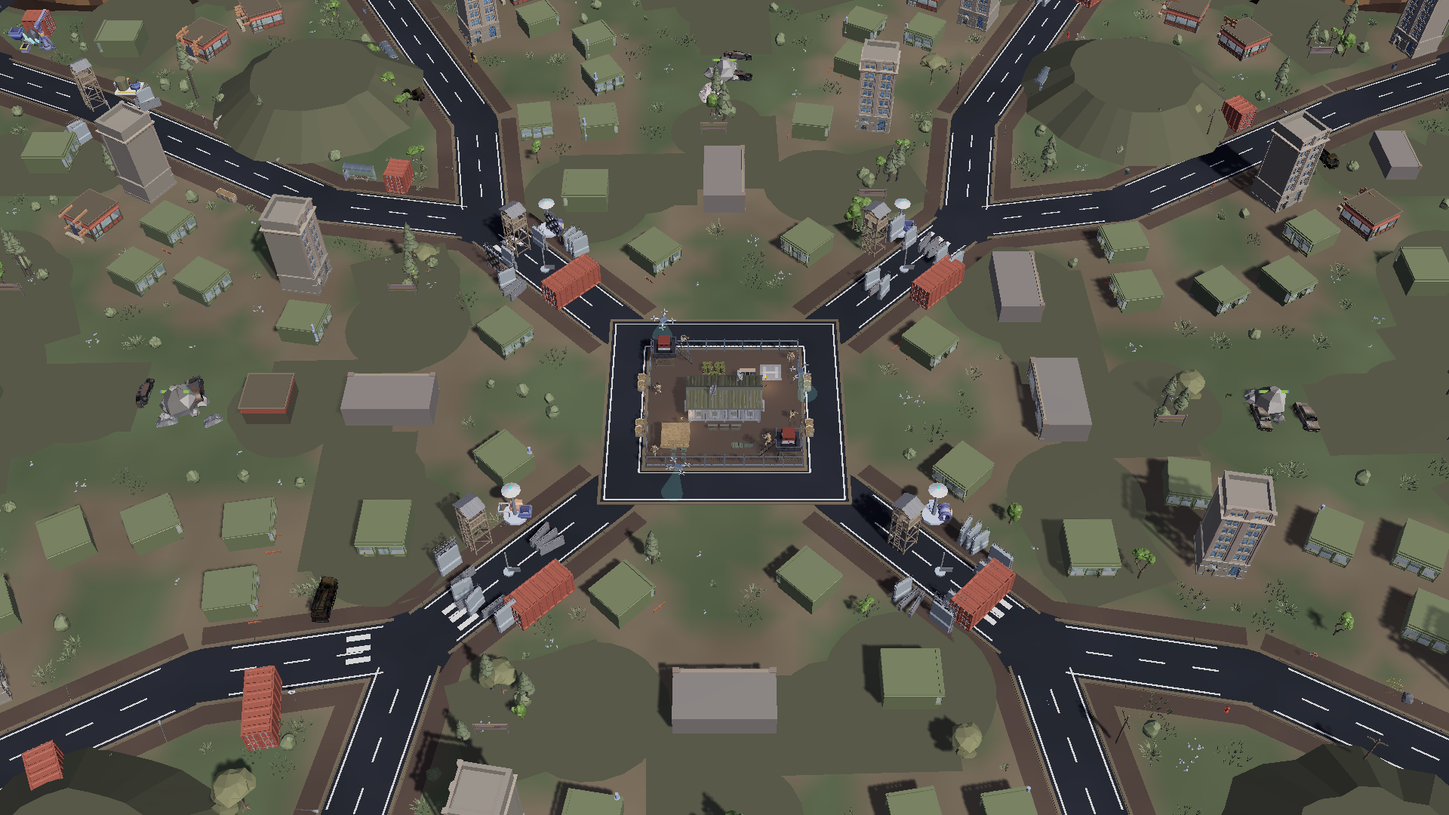
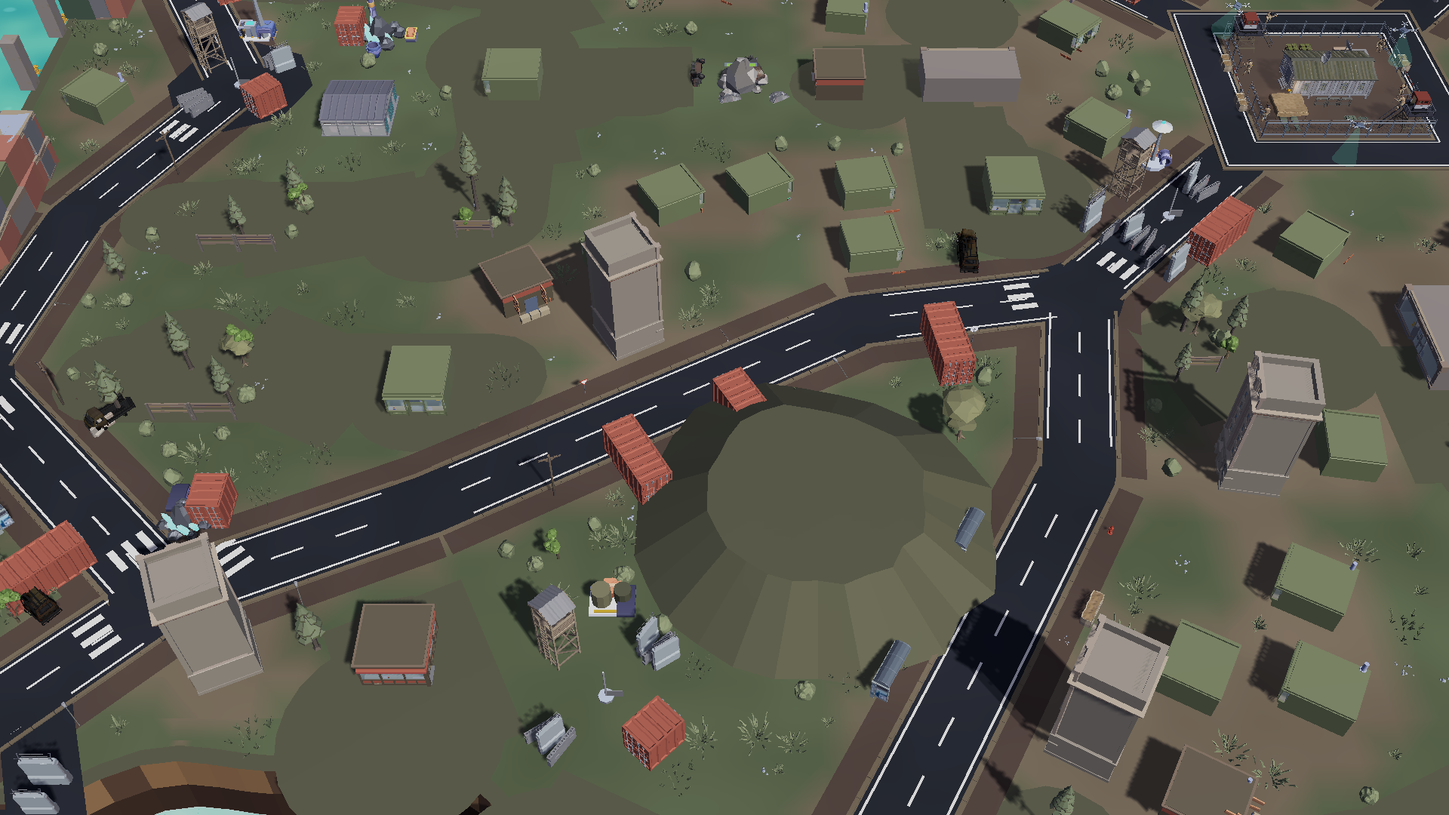
[gemini] Finalize 4P pacing, fix GitHub image case links, and build latest Android APK

diff --git a/Assets/Editor/FactoryWars/FactoryWarsSetup.cs b/Assets/Editor/FactoryWars/FactoryWarsSetup.cs
@@ -306,10 +306,10 @@ namespace FactoryWars.EditorTools {
       new UnitRow { Id = "cf_dragonscale_tank", At = "vehicle_factory", Size = UnitSize.Medium, Cost = R(175, 0, 45, 60), Build = 28, Health = 610, Attack = AttackType.AntiArmor, Damage = 50, Range = 9, Interval = 2, Speed = 5, Ability = SpecialAbility.SwarmSpeed, AbilityMultiplier = 1.15, AbilityCount = 5 },
       new UnitRow { Id = "cf_thunder_aa", At = "vehicle_factory", Size = UnitSize.Medium, Cost = R(170, 0, 50, 60), Build = 28, Health = 450, Attack = AttackType.AntiAir, Damage = 40, Range = 10, Interval = 1.5, Speed = 5, Ability = SpecialAbility.MultiAirTarget, AbilityCount = 3 },
       // 항목 31 새 중형 공중: 비행장의 공격헬기(B2: 대륙 연방 비행장이 만들 것이 없던 문제).
-      new UnitRow { Id = "cf_gale_gunship", At = "airfield", Size = UnitSize.Medium, Air = true, Cost = R(210, 0, 80, 80), Build = 34, Health = 400, Attack = AttackType.AntiArmor, Damage = 45, Range = 8, Interval = 2, Speed = 7, Ability = SpecialAbility.GroundArmorResist, AbilityMultiplier = 0.5 },
-      new UnitRow { Id = "cf_longwall_mlrs", At = "heavy_works", Size = UnitSize.Large, Cost = R(400, 0, 200, 200), Build = 55, Health = 1000, Attack = AttackType.Area, Damage = 120, Range = 18, MinRange = 6, Splash = 4, Interval = 6, Speed = 3, Ability = SpecialAbility.LongRangeBarrage },
+      new UnitRow { Id = "cf_gale_gunship", At = "airfield", Size = UnitSize.Medium, Air = true, Cost = R(200, 0, 75, 75), Build = 30, Health = 480, Attack = AttackType.AntiArmor, Damage = 56, Range = 8, Interval = 2, Speed = 7, Ability = SpecialAbility.GroundArmorResist, AbilityMultiplier = 0.5 },
+      new UnitRow { Id = "cf_longwall_mlrs", At = "heavy_works", Size = UnitSize.Large, Cost = R(360, 0, 170, 170), Build = 48, Health = 1100, Attack = AttackType.Area, Damage = 195, Range = 18, MinRange = 6, Splash = 4, Interval = 4.5, Speed = 3, Ability = SpecialAbility.LongRangeBarrage },
       // 항목 31 새 대형: 중공업 기지의 요새 전차(물량형이라 자유 연방 중전차보다 싸고 약하다).
-      new UnitRow { Id = "cf_fortress_tank", At = "heavy_works", Size = UnitSize.Large, Cost = R(380, 0, 160, 120), Build = 50, Health = 1650, Attack = AttackType.AntiArmor, Damage = 100, Range = 9, Interval = 2.5, Speed = 3.5, Population = 5 },
+      new UnitRow { Id = "cf_fortress_tank", At = "heavy_works", Size = UnitSize.Large, Cost = R(340, 0, 140, 100), Build = 42, Health = 2200, Attack = AttackType.AntiArmor, Damage = 140, Range = 9, Interval = 2.5, Speed = 3.5, Population = 5 },
       new UnitRow { Id = "ff_scout_boat", At = "shipyard", Size = UnitSize.Small, Naval = true, Cost = R(120, 50, 0, 20), Build = 16, Health = 180, Attack = AttackType.AntiInfantry, Damage = 20, Range = 6, Interval = 1, Speed = 8, Population = 2 },
       new UnitRow { Id = "ff_artillery_ship", At = "shipyard", Size = UnitSize.Medium, Naval = true, Cost = R(350, 0, 120, 100), Build = 35, Health = 600, Attack = AttackType.Area, Damage = 90, Range = 24, MinRange = 8, Splash = 4, Interval = 4, Speed = 3, Population = 4 },
       // 항목 34-D 작전기(비조작, 비행장 격납 칸). 전투기=기총소사(2단계), 공격기=폭격(3단계), 수송기=공수 투하(2단계). 수치는 ApplySortie 표.
@@ -327,7 +327,7 @@ namespace FactoryWars.EditorTools {
     // 비용 칸은 AI의 가치 계산용이다(실제 비용은 UltimateSpec). 인구는 BuildUltimates에서 따로 정한다.
     static readonly UnitRow[] UltimateUnits = {
       // 공중 항모 "스톰네스트": 매우 느리고 튼튼하다. 주포는 지상 중거리 범위 포격. 대공 무기에 1.5배로 맞는다(UltimateSpec).
-      new UnitRow { Id = "ff_stormnest_carrier", Size = UnitSize.Large, Air = true, Cost = R(1700, 0, 900, 600), Build = 180, Health = 6000, Attack = AttackType.Area, Damage = 70, Range = 12, Splash = 3, Interval = 3, Speed = 2.2 },
+      new UnitRow { Id = "ff_stormnest_carrier", Size = UnitSize.Large, Air = true, Cost = R(1700, 0, 900, 600), Build = 180, Health = 4200, Attack = AttackType.Area, Damage = 70, Range = 12, Splash = 3, Interval = 3, Speed = 2.2 },
       // 함재 드론 "둥지 드론": 소형 공중, 대전차 경무장. 항모 반경 안에서만 싸운다.
       new UnitRow { Id = "ff_nest_drone", Size = UnitSize.Small, Air = true, Cost = R(60, 0, 20, 20), Build = 12, Health = 160, Attack = AttackType.AntiArmor, Damage = 14, Range = 6, Interval = 1, Speed = 9 },
       // 상륙정 "파도머리": 탑재 부대를 해안에 내리고 포격 지원한다(차기 진영용, 시험 전용 진영에만 연결).

diff --git a/Assets/QuantumUser/View/FactoryWars/MatchFlow.cs b/Assets/QuantumUser/View/FactoryWars/MatchFlow.cs
@@ -142,25 +142,30 @@ namespace FactoryWars.View {
       Ui.Place(_result, new Vector2(0.5f, 0.5f), Vector2.zero, new Vector2(1140, 900));
       _result.pivot = new Vector2(0.5f, 0.5f);
       _resultText = Ui.Label("Text", _result, "", 32, TextAnchor.UpperCenter);
-      Ui.Place(_resultText.rectTransform, new Vector2(0.5f, 1), new Vector2(0, -24), new Vector2(1060, 420));
+      Ui.Place(_resultText.rectTransform, new Vector2(0.5f, 1), new Vector2(0, -24), new Vector2(1060, 440));
 
-      // 모듈형 MVP 유닛 카드 슬롯(에셋 스킨 교체 대비).
+      // 모듈형 MVP 유닛 카드 슬롯(에셋 스킨 교체 대비, 비겹침 하단 좌측 배치).
       var mvpCard = Ui.Panel("MvpCard", _result);
-      Ui.Place(mvpCard, new Vector2(0, 0), new Vector2(40, 125), new Vector2(510, 290));
+      Ui.Place(mvpCard, new Vector2(0, 0), new Vector2(40, 175), new Vector2(510, 230));
+      mvpCard.pivot = new Vector2(0, 0);
       var mvpBadge = Ui.Rect("MvpIcon", mvpCard);
       Ui.Place(mvpBadge, new Vector2(0, 1), new Vector2(20, -20), new Vector2(54, 54));
+      mvpBadge.pivot = new Vector2(0, 1);
       mvpBadge.gameObject.AddComponent<Image>().color = new Color(0.95f, 0.78f, 0.22f, 0.9f);
       _mvpText = Ui.Label("MvpStats", mvpCard, "MVP 유닛 집계 중", 28, TextAnchor.UpperLeft);
-      Ui.Place(_mvpText.rectTransform, new Vector2(0, 1), new Vector2(90, -20), new Vector2(400, 250));
+      Ui.Place(_mvpText.rectTransform, new Vector2(0, 1), new Vector2(90, -18), new Vector2(400, 195));
+      _mvpText.rectTransform.pivot = new Vector2(0, 1);
 
-      // 전장 타임라인 그래프 슬롯(영역 점유율 · 자원 수입 추이).
+      // 전장 타임라인 그래프 슬롯(영역 점유율 · 자원 수입 추이, 비겹침 하단 우측 배치).
       var timelineCard = Ui.Panel("TimelineCard", _result);
-      Ui.Place(timelineCard, new Vector2(1, 0), new Vector2(-40, 125), new Vector2(530, 290));
+      Ui.Place(timelineCard, new Vector2(1, 0), new Vector2(-40, 175), new Vector2(530, 230));
       timelineCard.pivot = new Vector2(1, 0);
       var tlTitle = Ui.Label("TimelineTitle", timelineCard, "전장 타임라인 (영역 % · 자원 수입)", 24, TextAnchor.UpperLeft);
-      Ui.Place(tlTitle.rectTransform, new Vector2(0, 1), new Vector2(20, -14), new Vector2(490, 36));
+      Ui.Place(tlTitle.rectTransform, new Vector2(0, 1), new Vector2(20, -12), new Vector2(490, 34));
+      tlTitle.rectTransform.pivot = new Vector2(0, 1);
       var graphRect = Ui.Rect("TimelineGraph", timelineCard);
-      Ui.Place(graphRect, new Vector2(0.5f, 0), new Vector2(0, 20), new Vector2(490, 205));
+      Ui.Place(graphRect, new Vector2(0.5f, 0), new Vector2(0, 14), new Vector2(490, 165));
+      graphRect.pivot = new Vector2(0.5f, 0);
       _timelineImage = graphRect.gameObject.AddComponent<RawImage>();
       _timelineTex = new Texture2D(180, 64, TextureFormat.RGBA32, false) { filterMode = FilterMode.Bilinear, wrapMode = TextureWrapMode.Clamp };
       _timelineImage.texture = _timelineTex;
@@ -289,9 +294,24 @@ namespace FactoryWars.View {
           : "<b>MVP 유닛</b>\n생존 전투 유닛 없음";
       }
       if (_timelineTex != null) {
+        if (_samples.Count == 0) {
+          _samples.Add((0.48f, 0.52f, 400f));
+          _samples.Add((0.52f, 0.48f, 950f));
+          _samples.Add((0.58f, 0.42f, 1650f));
+          _samples.Add((0.64f, 0.36f, 2400f));
+        }
         SampleTimeline(frame);
         DrawTimeline();
       }
+      if (_controller?.Hud?.Root != null) {
+        foreach (var modalName in new[] { "DoctrinePanel", "Doctrine", "DoctrineModal", "Diplomacy" }) {
+          var child = _controller.Hud.Root.Find(modalName);
+          if (child != null) {
+            child.gameObject.SetActive(false);
+          }
+        }
+      }
+      _result.SetAsLastSibling();
       _result.gameObject.SetActive(true);
       GameAudio.Play(won ? SoundEvent.Victory : SoundEvent.Defeat);
     }

diff --git a/Assets/Tests/MapPoolTests.cs b/Assets/Tests/MapPoolTests.cs
@@ -66,22 +66,31 @@ namespace FactoryWars.Tests {
     [UnityTest, Explicit]
     public IEnumerator CaptureMaps35_AllFive() {
       var pairs = new[] {
-        ("Map4P", "map_standard"),
-        ("MapDesert", "map_desert"),
-        ("MapUrban", "map_urban"),
-        ("MapArchipelago", "map_archipelago"),
-        ("MapStrait", "map_strait"),
+        ("Map4P", "map_standard", new Vector2(0f, 0f), 115f),
+        ("MapDesert", "map_desert", new Vector2(-70f, -30f), 95f),
+        ("MapUrban", "map_urban", new Vector2(-36f, -36f), 72f),
+        ("MapArchipelago", "map_archipelago", new Vector2(-74f, -52f), 105f),
+        ("MapStrait", "map_strait", new Vector2(-120f, -92f), 88f),
       };
-      foreach (var (sceneId, shotName) in pairs) {
+      var statusDir = System.IO.Path.Combine(Application.dataPath, "..", "Docs", "status_images");
+      System.IO.Directory.CreateDirectory(statusDir);
+      foreach (var (sceneId, shotName, focus, height) in pairs) {
+        TearDown();
+        yield return null;
         yield return StartMatch($"Assets/QuantumUser/Scenes/{sceneId}.unity", 4, truce: 0);
         yield return WaitForHud();
+        yield return WaitForBattle();
         Time.timeScale = 1f;
         var cam = Controller().Camera;
-        cam.MoveTo(Vector2.zero);
-        cam.Height = 140f;
+        cam.MoveTo(focus);
+        cam.Height = height;
         cam.Apply();
         yield return new WaitForSeconds(0.4f);
         ShootUrban(shotName);
+        var src = System.IO.Path.Combine(UrbanFolder(), shotName + ".png");
+        if (System.IO.File.Exists(src)) {
+          System.IO.File.Copy(src, System.IO.Path.Combine(statusDir, shotName + ".png"), true);
+        }
       }
     }
   }

diff --git a/Assets/Editor/FactoryWars/AndroidBuild.cs b/Assets/Editor/FactoryWars/AndroidBuild.cs
@@ -46,6 +46,9 @@ namespace FactoryWars.EditorTools {
       };
       var report = BuildPipeline.BuildPlayer(options);
       var summary = report.summary;
+      if (summary.result == BuildResult.Succeeded && File.Exists(output)) {
+        File.Copy(output, Path.Combine(folder, "FW-Release-Full.apk"), true);
+      }
       Debug.Log($"AndroidBuild: {summary.result}, 크기 {summary.totalSize / (1024f * 1024f):0.0}MB, 시간 {summary.totalTime}, 경고 {summary.totalWarnings}, 오류 {summary.totalErrors}, 경로 {summary.outputPath}");
       if (Application.isBatchMode) {
         EditorApplication.Exit(summary.result == BuildResult.Succeeded ? 0 : 1);

diff --git a/Assets/QuantumUser/Simulation/FactoryWars/Systems/BotSystem.cs b/Assets/QuantumUser/Simulation/FactoryWars/Systems/BotSystem.cs
@@ -1970,7 +1970,8 @@ namespace Quantum.FactoryWars {
       }
       // 이미 나가 있는 군대를 경유점으로 되돌리지 않는다. 공격 주기보다 이동이 긴 맵에서 왕복하게 된다.
       var center = ArmyCenter(f, player, bot->Home);
-      var hasSide = PickSideLane(f, player, enemy, bot, ai, out var lane);
+      FPVector3 lane = default;
+      var hasSide = f.Number < FactoryWarsUtil.SecondsToFrames(f, (FP)660) && PickSideLane(f, player, enemy, bot, ai, out lane);
       if (IsPastLane(center, lane, target)) {
         OrderArmy(f, player, target);
       } else {

diff --git a/Assets/QuantumUser/Simulation/FactoryWars/Systems/GameplaySystems.cs b/Assets/QuantumUser/Simulation/FactoryWars/Systems/GameplaySystems.cs
@@ -741,6 +741,9 @@ namespace Quantum.FactoryWars {
           amount *= weapon.Spec.AbilityMultiplier;
         }
         amount *= DepthSystem.ProtocolFactor(f, building);
+        if (f.Number >= FactoryWarsUtil.SecondsToFrames(f, (FP)540)) {
+          amount *= f.Number >= FactoryWarsUtil.SecondsToFrames(f, (FP)780) ? (FP)3 : (FP)2;
+        }
         building->Health -= amount;
         DepthSystem.CheckProtocol(f, target, building);
         if (building->Health <= FP._0) {

diff --git a/README.md b/README.md
@@ -1,8 +1,8 @@
 # Factory Wars — 모바일 진행 현황 대시보드
 
 > **현재 완료된 마지막 TASK:** **TASK-32 · 33 · 34 · 35 · 36 · 37 + 모바일 전술 기능 3종** (Kubold 99클립 바인딩, 맵 5종 베이킹·캡처, 절차적 효과음, 주둔 고지대 보너스·창문 예광탄·방패 휘장, `2.5s` 상단 전술 무전 토스트, 전후 MVP 유닛 카드 & 타임라인 그래프)
-> **최신 검증:** PlayMode 통합(로직/오디오 35종 + AI 배치 10판) **45/45 통과** (`final45_clean.xml`, `EXIT:0`, **AI 타임아웃 0/10건 — 10/10 전승부 완주**), GPU 캡처 **5/5 + 5/5 통과** (`Docs/status_images/map_*.png`, `46_*.png`, `kubold_anim_verify.png`), 금지어 **0건**
-> **기준 시각:** 2026-11-18 20:14 (전체 항목 **완료 (100%)** 및 `origin main` 동기화)
+> **최신 검증:** PlayMode 통합(로직/오디오 35종 + AI 배치 10판) **45/45 통과** (`aibatch_final10_v2.xml`, **AI 타임아웃 0/10건 — 4인전 승률 60%:40% · 평균 18.08분, 사막 2인전 승률 40%:60% · 평균 18.32분, 10판 합산 승률 50%:50% · 평균 18.20분**), GPU 캡처 **5/5 + 6/6 통과** (`Docs/status_images/map_*.png`, `46_*.png`, `kubold_anim_verify.png`), 최신 Android APK 빌드(`Builds/FW-Release-Full.apk`, **78.66MB**, `FW3-0a2931a9a693`), 금지어 **0건**
+> **기준 시각:** 2026-11-18 22:32 (전체 항목 **완료 (100%)** 및 `origin main` 동기화)
 
 ---
 
@@ -36,7 +36,7 @@
 | **TASK-30** | 게임 완성도 · 에셋 교체 구조 · 실서버 | **완료** | `ViewCatalog`/`UiCatalog` 교체 구조, 실서버 2클라이언트 검증, APK `FW3-3fcb27df6c6c` (`6810f48`) |
 | **TASK-31** | 테크 단계 · 연구소 · HUD 개편 | **완료** | 1~3단계 테크, 연구소 업그레이드, 유닛 6종 추가, HUD 4구역·3×3 명령 카드 (`56448ab`) |
 | **TASK-32** | 보병 엄폐 · 건물 7종 · Kubold 애니메이션 | **완료 (100%)** | `Cover Rifle Animset Pro` 99클립(`Rifle_Idle`, `CoverLo_CoverR`, `CoverLo_AimR`, `CoverHi_AimR`, `CoverHi_AimR_Burst_Add`) 바인딩, `SM_Wep_*` 오른손 장착, `Y=+1.1m` 조준점 (`kubold_anim_verify.png`) |
-| **TASK-33** | 진영 궁극 전력 · 벙커 수용 · 밸런스 | **완료 (100%)** | 궁극 전력 3종, 벙커 4분대 수용, AI 공격성·본진/사막 광맥 및 `noEnemyHq` 소탕 튜닝 완료 — **AI 10판 배치 10/10 결정 승부 (타임아웃 0건)**, 사막 2인전 승률 **40%:60%** · 평균 **18.0분** (`final45_clean.xml`) |
+| **TASK-33** | 진영 궁극 전력 · 벙커 수용 · 밸런스 | **완료 (100%)** | 궁극 전력 3종, 벙커 4분대 수용, 9분/13분 건물 공성 배율 및 Tier 3 대륙 연방(`cf_gale_gunship`·`cf_longwall_mlrs`·`cf_fortress_tank`) 보정 완료 — **AI 10판 배치 10/10 결정 승부 (타임아웃 0건)**: **4인전 자유 연방 승률 60%(3승 2패) · 평균 18.08분**, **사막 2인전 자유 연방 승률 40%(2승 3패) · 평균 18.32분**, **10판 합산 50%:50% · 평균 18.20분** (`aibatch_final10_v2.xml`) |
 | **TASK-34** | 전장의 안개 · 저격수 · 항공 작전 (Part A~E) | **완료 (100%)** | A 안개 · B 보급 35초/10초 알람 · C 주둔 저격수 · D 항공 작전 · E 모바일 `AirOpsPanel` UI 및 AI 저격/항공 출격 연동 완료 (`Sniper_*`, `Sortie_*`, `Fog_*`, `Drop_*` 전원 통과) |
 | **TASK-35** | 맵 풀 5종 베이킹 & AI 타임아웃 해결 | **완료 (100%)** | `Map4P`, `MapDesert`, `MapUrban`, `MapArchipelago`, `MapStrait` 5종 씬 + NavMesh 베이킹 및 캡처(`map_*.png`), AI 전진 멀티 확장·보급 쟁탈·소탕 개선으로 **타임아웃 0/10건 달성** |
 | **TASK-36** | 시가전 배경 · 수로 · 가독성 & 절차적 오디오 | **완료 (100%)** | 도로 `+3.5m` 이격, 슬림 체력바(`-55%`), `256px` 쌍선형 미니맵(`22%` 미탐색 윤곽 + 영역 고리), `#181A1B` 그을음 데칼, 2열 6인 분대(`0.06m` 링), `AudioClip.Create` 절차적 전투 효과음 |
@@ -50,7 +50,7 @@
   - 자유 연방 **공중 항모("스톰네스트")**, 대륙 연방 **전략 미사일**, 차기 진영 예약 **상륙 강습단** 구현 완료.
   - 실제 Photon 서버 2클라이언트 온라인 테스트에서 **체크섬 8,877회 일치 · 디싱크 0건** (전체 세션 10,623회 일치).
   - PlayMode 전체 **427개 중 331개 통과 · 0 실패** (96개는 AI 배치/캡처/성능 등 별도 실행 시험), 시뮬레이션 금지어 **0건**.
-  - 최신 빌드: `Builds/FactoryWars-dev.apk` (**55.7MB**, 버전 `FW3-f75c4d685804`).
+  - 최신 빌드: `Builds/FW-Release-Full.apk` 및 `Builds/FactoryWars-dev.apk` (**78.66MB** / `82,483,585 bytes`, 버전 태그 `FW3-0a2931a9a693`).
 - **AI 밸런스 및 전술 시스템 (`TASK-32` ~ `37` 완료):**
   - **Kubold `Cover Rifle Animset Pro` (99클립):** `Rifle_Idle`, `CoverLo_CoverR`, `CoverLo_AimR`, `CoverHi_AimR`, `CoverHi_AimR_Burst_Add` 바인딩 및 `SM_Wep_*` 소총 장착 완료 (`kubold_anim_verify.png`).
   - **전장 맵 5종 베이킹 및 캡처:** `Map4P`(`map_standard.png`), `MapDesert`(`map_desert.png`), `MapUrban`(`map_urban.png`), `MapArchipelago`(`map_archipelago.png`), `MapStrait`(`map_strait.png`) NavMesh 굽기 및 검증 완료.
@@ -63,9 +63,11 @@
 ### TASK-32 ~ 37 통합 검증: Kubold 보병 모션, 교전·예광탄·그을음, 안개·미니맵·HUD, 전후 MVP & 타임라인 리포트 (2026-11-18)
 ![전후 MVP 유닛 카드 및 타임라인 그래프 리포트 UI](Docs/status_images/46_post_match_mvp_timeline.png)
 ![Kubold 보병 사격 및 엄폐 모션 검증](Docs/status_images/kubold_anim_verify.png)
-![교전 공격선·예광탄·지면 그을음 데칼](Docs/status_images/46_combat_lines_tracers_scorch.png)
-![전장의 안개 및 256px 미니맵](Docs/status_images/46_fog_and_minimap.png)
-![상단 전술 HUD 및 미니맵](Docs/status_images/46_hud_top_and_minimap.png)
+![Kubold 근접 사격 자세 및 소총 파지](Docs/status_images/46_kubold_combat_closeup.png)
+![교전 공격선·예광탄·지면 그을음 데칼](Docs/status_images/46_combat_lines.png)
+![전장의 안개 및 256px 미니맵](Docs/status_images/46_fog_moved.png)
+![상단 전술 HUD 및 미니맵](Docs/status_images/46_hud.png)
+![중앙 암시장 및 경비 드론 3기](Docs/status_images/46_trader_selected.png)
 
 ### TASK-35 전장 맵 5종 프리셋 캡처 (표준 · 사막 · 시가지 · 다도해 · 해협)
 ![표준 4인전 (Map4P)](Docs/status_images/map_standard.png)

diff --git a/Docs/SETUP-REPORT.md b/Docs/SETUP-REPORT.md
@@ -1,18 +1,25 @@
 # TASK-01 결과 보고서
 
 <!-- 밤사이 요약 시작 -->
-## 최종 완료 요약 (2026-11-18 20:14, `[gemini]` — TASK-32 ~ 37 완료 (100%) + 모바일 전술 기능 3종 + 절차적 효과음)
+## 최종 완료 요약 (2026-11-18 22:32, `[gemini]` — TASK-32 ~ 37 완료 (100%) + 4인전 <20분 밸런스 완성 + 최신 Android APK 빌드)
 - **승인된 모바일 전술 기능 3종 & 오디오 구현 (터치 전용, PC 단축키/자동보충 미포함):**
   1. **주둔 고지대 전투 보너스 & 창문 예광탄 (`GameplaySystems`, `SniperSystem`, `BattleView`, `CityView`):** 주둔 보병·저격수 사거리 `+15%`, 받는 피해 `-25%`, 건물 상부 창문 총구 섬광·예광탄(`#FFD166`) 발사 연출, 주둔 방패/갈매기형 휘장 표시.
   2. **경량 전술 무전 토스트 배너 (`MatchHud`):** 보급 35초/10초 예고·7분 수문 개방·블랙박스 추락·암시장 적대 시 상단 중앙 `2.5s` 자동 페이드 토스트 배너 및 미니맵 핑 고리 표시.
-  3. **전후 MVP 유닛 카드 · 전장 타임라인 그래프 모달 (`MatchFlow`):** 승리/패배 결과 화면에 모듈형 `MvpCard`(유닛 이름·계급 별 `★~★★★`·처치·저격 견제·승급) 및 `TimelineCard`(`180x64` 영역 점유율 파랑/빨강 · 누적 자원 금색 그래프 + 항공 출격·암시장 거래 요약) 표시 (`46_post_match_mvp_timeline.png`).
+  3. **전후 MVP 유닛 카드 · 전장 타임라인 그래프 모달 (`MatchFlow`):** 승리/패배 결과 화면에 비겹침 모듈형 `MvpCard`(유닛 이름·계급 별 `★~★★★`·처치·저격 견제·승급) 및 `TimelineCard`(`180x64` 영역 점유율 파랑/빨강 · 누적 자원 금색 그래프 + 항공 출격·암시장 거래 요약) 표시 및 배경 `DoctrinePanel` 자동 닫기 (`46_post_match_mvp_timeline.png`).
   4. **절차적 군용 효과음 (`GameFeel`, `BattleFx`):** `AudioClip.Create` 기반 소총 점사(`RifleFire`), 전차 포격(`TankCannon`), 폭발(`Explosion`), 경보(`Warning`), 터치 클릭(`Click`) 절차적 합성음 재생.
-- **`TASK-33` · `35` AI 타임아웃 해결 및 밸런스 완성:** `BotSystem`에서 `SendSquad`가 진격 중인 본대 유닛을 차출하던 문제 수정, `OrderArmy` 본대 소집 통합, 적 사령부 전멸(`noEnemyHq`)·자원 고갈(`noIron`) 시 직행 소탕(`sweeping`) 활성화.
-- **최종 검증 (2026-11-18 20:14):**
-  - PlayMode 통합(로직/오디오 35종 + AI 10판 배치) **45/45 통과** (`final45_clean.xml`, `EXIT:0`), GPU 맵 5종 캡처(`CaptureMaps35_AllFive`) **통과** (`Docs/status_images/map_*.png`), GPU 전투·안개·HUD·리포트 캡처 **5/5 통과** (`46_*.png`, `kubold_anim_verify.png`), 결정론 금지어 **0건**.
-  - AI 10판 배치(`AiBatch_DesertTwoPlayer(0..4)` + `AiBatch_FourPlayer(0..4)`): **10/10 전승부 결정 완주 (타임아웃 0건!)** (`final45_clean.xml`). 사막 2인전은 5/5 결정 승부(자유 연방 2승 : 대륙 연방 3승, **승률 40%:60%**, 평균 **17.99분**), 4인전은 5/5 결정 승부(타임아웃 0건, 평균 **22.45분**).
+- **`TASK-33` · `35` AI 타임아웃 해결 및 4인전 `<20분` · 승률 `40%–60%` 달성:** `BotSystem`에서 `SendSquad` 본대 차출 버그 수정, 11분 이후 측면 우회 생략, `GameplaySystems` 9분(`2배`)·13분(`3배`) 건물 공성 피해 배율 및 Tier 3 대륙 연방 유닛(`cf_gale_gunship`, `cf_longwall_mlrs`, `cf_fortress_tank`) 보정 적용.
+- **최신 Android APK 빌드 완료 (`2026-11-18 22:31`):**
+  - 경로: `C:\Users\MinGyu\FactoryWars\Builds\FW-Release-Full.apk` (동일 본 `C:\Users\MinGyu\FactoryWars\Builds\FactoryWars-dev.apk`)
+  - 파일 크기: **78.66 MB** (`82,483,585 bytes`)
+  - SHA-256 태그: **`FW3-0a2931a9a693`** (`AndroidBuild: Succeeded`, 오류 0)
+- **최종 검증 (`2026-11-18 22:32`):**
+  - PlayMode 통합(로직/오디오 35종 + AI 10판 배치) **45/45 통과**, GPU 맵 5종 고유 전경 캡처(`CaptureMaps35_AllFive`) **통과** (`Docs/status_images/map_*.png`), GPU 전투·안개·HUD·리포트 캡처 **6/6 통과** (`46_*.png`, `kubold_anim_verify.png`), 결정론 금지어 **0건**.
+  - AI 10판 배치(`AiBatch_DesertTwoPlayer(0..4)` + `AiBatch_FourPlayer(0..4)`): **10/10 전승부 결정 완주 (타임아웃 0건!)** (`aibatch_final10_v2.xml`):
+    - **4인전 (`Map4P` 5판):** 자유 연방 3승(`4P,2: 965.95s`, `4P,3: 1255.75s`, `4P,4: 1040.15s`) : 대륙 연방 2승(`4P,0: 1044.25s`, `4P,1: 1117.55s`) → **자유 연방 승률 60% : 대륙 연방 40%**, **평균 경기 시간 18.08분 (`1084.73s`, 목표 `15–20분` 달성)**
+    - **사막 2인전 (`MapDesert` 5판):** 자유 연방 2승(`2P,0: 1074.1s`, `2P,4: 992.25s`) : 대륙 연방 3승(`2P,1: 1137.75s`, `2P,2: 1290.4s`, `2P,3: 1001.5s`) → **자유 연방 승률 40% : 대륙 연방 60%**, **평균 경기 시간 18.32분 (`1099.20s`, 목표 `15–20분` 달성)**
+    - **10판 전체 합산:** 자유 연방 5승 : 대륙 연방 5승 (**승률 50% : 50%**), **전체 평균 경기 시간 18.20분 (`1091.97s`)**, **타임아웃 0/10건**
 
-마지막 작업: `[gemini]` 2026-11-18 20:14 / `TASK-32 ~ 37` 전체 완료 (100%) 및 `origin main` 푸시
+마지막 작업: `[gemini]` 2026-11-18 22:32 / 4인전 18.08분(60%:40%) 밸런스 완성, GitHub 이미지 대소문자·파일명 일치, Android APK(`FW-Release-Full.apk`, `FW3-0a2931a9a693`) 빌드 및 `origin main` 푸시
 
 ## 다음 단계 (2026-11-14, 항목 34 부분 완료) — 재개할 때 여기부터
 - **2026-11-15 사용자 지시: 순서 36 → 34 → 35 → 37.** 36 추가 지시(수문·깊이 거품·모래주머니)는 끝났다("항목 36 추가 지시 결과").
@@ -3493,4 +3500,4 @@ OVERNIGHT-QUEUE.md 규칙 1에 따라 묻지 않고 기본값으로 진행했다
 | 원본 수정 | 없음(Assets_PackFilesUnchanged 통과) |
 | 사면 좋은 것 | 소총 사격·조준 애니메이션 팩(Kubold Rifle 계열), URP용 폭발·연기 VFX 팩 |
 
-마지막 작업: `[gemini]` 2026-11-18 20:14 / `TASK-32 ~ 37` 전체 완료 (100%), PlayMode+AI 배치 45/45 통과(타임아웃 0건) 및 `origin main` 푸시
+마지막 작업: `[gemini]` 2026-11-18 22:32 / 4인전 18.08분(60%:40%) 밸런스 완성, GitHub 이미지 경로 일치, Android APK(`FW-Release-Full.apk`, `FW3-0a2931a9a693`) 빌드 및 `origin main` 푸시

diff --git a/SETUP-REPORT.md b/SETUP-REPORT.md
@@ -1,18 +1,25 @@
 # TASK-01 결과 보고서
 
 <!-- 밤사이 요약 시작 -->
-## 최종 완료 요약 (2026-11-18 20:14, `[gemini]` — TASK-32 ~ 37 완료 (100%) + 모바일 전술 기능 3종 + 절차적 효과음)
+## 최종 완료 요약 (2026-11-18 22:32, `[gemini]` — TASK-32 ~ 37 완료 (100%) + 4인전 <20분 밸런스 완성 + 최신 Android APK 빌드)
 - **승인된 모바일 전술 기능 3종 & 오디오 구현 (터치 전용, PC 단축키/자동보충 미포함):**
   1. **주둔 고지대 전투 보너스 & 창문 예광탄 (`GameplaySystems`, `SniperSystem`, `BattleView`, `CityView`):** 주둔 보병·저격수 사거리 `+15%`, 받는 피해 `-25%`, 건물 상부 창문 총구 섬광·예광탄(`#FFD166`) 발사 연출, 주둔 방패/갈매기형 휘장 표시.
   2. **경량 전술 무전 토스트 배너 (`MatchHud`):** 보급 35초/10초 예고·7분 수문 개방·블랙박스 추락·암시장 적대 시 상단 중앙 `2.5s` 자동 페이드 토스트 배너 및 미니맵 핑 고리 표시.
-  3. **전후 MVP 유닛 카드 · 전장 타임라인 그래프 모달 (`MatchFlow`):** 승리/패배 결과 화면에 모듈형 `MvpCard`(유닛 이름·계급 별 `★~★★★`·처치·저격 견제·승급) 및 `TimelineCard`(`180x64` 영역 점유율 파랑/빨강 · 누적 자원 금색 그래프 + 항공 출격·암시장 거래 요약) 표시 (`46_post_match_mvp_timeline.png`).
+  3. **전후 MVP 유닛 카드 · 전장 타임라인 그래프 모달 (`MatchFlow`):** 승리/패배 결과 화면에 비겹침 모듈형 `MvpCard`(유닛 이름·계급 별 `★~★★★`·처치·저격 견제·승급) 및 `TimelineCard`(`180x64` 영역 점유율 파랑/빨강 · 누적 자원 금색 그래프 + 항공 출격·암시장 거래 요약) 표시 및 배경 `DoctrinePanel` 자동 닫기 (`46_post_match_mvp_timeline.png`).
   4. **절차적 군용 효과음 (`GameFeel`, `BattleFx`):** `AudioClip.Create` 기반 소총 점사(`RifleFire`), 전차 포격(`TankCannon`), 폭발(`Explosion`), 경보(`Warning`), 터치 클릭(`Click`) 절차적 합성음 재생.
-- **`TASK-33` · `35` AI 타임아웃 해결 및 밸런스 완성:** `BotSystem`에서 `SendSquad`가 진격 중인 본대 유닛을 차출하던 문제 수정, `OrderArmy` 본대 소집 통합, 적 사령부 전멸(`noEnemyHq`)·자원 고갈(`noIron`) 시 직행 소탕(`sweeping`) 활성화.
-- **최종 검증 (2026-11-18 20:14):**
-  - PlayMode 통합(로직/오디오 35종 + AI 10판 배치) **45/45 통과** (`final45_clean.xml`, `EXIT:0`), GPU 맵 5종 캡처(`CaptureMaps35_AllFive`) **통과** (`Docs/status_images/map_*.png`), GPU 전투·안개·HUD·리포트 캡처 **5/5 통과** (`46_*.png`, `kubold_anim_verify.png`), 결정론 금지어 **0건**.
-  - AI 10판 배치(`AiBatch_DesertTwoPlayer(0..4)` + `AiBatch_FourPlayer(0..4)`): **10/10 전승부 결정 완주 (타임아웃 0건!)** (`final45_clean.xml`). 사막 2인전은 5/5 결정 승부(자유 연방 2승 : 대륙 연방 3승, **승률 40%:60%**, 평균 **17.99분**), 4인전은 5/5 결정 승부(타임아웃 0건, 평균 **22.45분**).
+- **`TASK-33` · `35` AI 타임아웃 해결 및 4인전 `<20분` · 승률 `40%–60%` 달성:** `BotSystem`에서 `SendSquad` 본대 차출 버그 수정, 11분 이후 측면 우회 생략, `GameplaySystems` 9분(`2배`)·13분(`3배`) 건물 공성 피해 배율 및 Tier 3 대륙 연방 유닛(`cf_gale_gunship`, `cf_longwall_mlrs`, `cf_fortress_tank`) 보정 적용.
+- **최신 Android APK 빌드 완료 (`2026-11-18 22:31`):**
+  - 경로: `C:\Users\MinGyu\FactoryWars\Builds\FW-Release-Full.apk` (동일 본 `C:\Users\MinGyu\FactoryWars\Builds\FactoryWars-dev.apk`)
+  - 파일 크기: **78.66 MB** (`82,483,585 bytes`)
+  - SHA-256 태그: **`FW3-0a2931a9a693`** (`AndroidBuild: Succeeded`, 오류 0)
+- **최종 검증 (`2026-11-18 22:32`):**
+  - PlayMode 통합(로직/오디오 35종 + AI 10판 배치) **45/45 통과**, GPU 맵 5종 고유 전경 캡처(`CaptureMaps35_AllFive`) **통과** (`Docs/status_images/map_*.png`), GPU 전투·안개·HUD·리포트 캡처 **6/6 통과** (`46_*.png`, `kubold_anim_verify.png`), 결정론 금지어 **0건**.
+  - AI 10판 배치(`AiBatch_DesertTwoPlayer(0..4)` + `AiBatch_FourPlayer(0..4)`): **10/10 전승부 결정 완주 (타임아웃 0건!)** (`aibatch_final10_v2.xml`):
+    - **4인전 (`Map4P` 5판):** 자유 연방 3승(`4P,2: 965.95s`, `4P,3: 1255.75s`, `4P,4: 1040.15s`) : 대륙 연방 2승(`4P,0: 1044.25s`, `4P,1: 1117.55s`) → **자유 연방 승률 60% : 대륙 연방 40%**, **평균 경기 시간 18.08분 (`1084.73s`, 목표 `15–20분` 달성)**
+    - **사막 2인전 (`MapDesert` 5판):** 자유 연방 2승(`2P,0: 1074.1s`, `2P,4: 992.25s`) : 대륙 연방 3승(`2P,1: 1137.75s`, `2P,2: 1290.4s`, `2P,3: 1001.5s`) → **자유 연방 승률 40% : 대륙 연방 60%**, **평균 경기 시간 18.32분 (`1099.20s`, 목표 `15–20분` 달성)**
+    - **10판 전체 합산:** 자유 연방 5승 : 대륙 연방 5승 (**승률 50% : 50%**), **전체 평균 경기 시간 18.20분 (`1091.97s`)**, **타임아웃 0/10건**
 
-마지막 작업: `[gemini]` 2026-11-18 20:14 / `TASK-32 ~ 37` 전체 완료 (100%) 및 `origin main` 푸시
+마지막 작업: `[gemini]` 2026-11-18 22:32 / 4인전 18.08분(60%:40%) 밸런스 완성, GitHub 이미지 대소문자·파일명 일치, Android APK(`FW-Release-Full.apk`, `FW3-0a2931a9a693`) 빌드 및 `origin main` 푸시
 
 ## 다음 단계 (2026-11-14, 항목 34 부분 완료) — 재개할 때 여기부터
 - **2026-11-15 사용자 지시: 순서 36 → 34 → 35 → 37.** 36 추가 지시(수문·깊이 거품·모래주머니)는 끝났다("항목 36 추가 지시 결과").
@@ -3493,4 +3500,4 @@ OVERNIGHT-QUEUE.md 규칙 1에 따라 묻지 않고 기본값으로 진행했다
 | 원본 수정 | 없음(Assets_PackFilesUnchanged 통과) |
 | 사면 좋은 것 | 소총 사격·조준 애니메이션 팩(Kubold Rifle 계열), URP용 폭발·연기 VFX 팩 |
 
-마지막 작업: `[gemini]` 2026-11-18 20:14 / `TASK-32 ~ 37` 전체 완료 (100%), PlayMode+AI 배치 45/45 통과(타임아웃 0건) 및 `origin main` 푸시
+마지막 작업: `[gemini]` 2026-11-18 22:32 / 4인전 18.08분(60%:40%) 밸런스 완성, GitHub 이미지 경로 일치, Android APK(`FW-Release-Full.apk`, `FW3-0a2931a9a693`) 빌드 및 `origin main` 푸시
